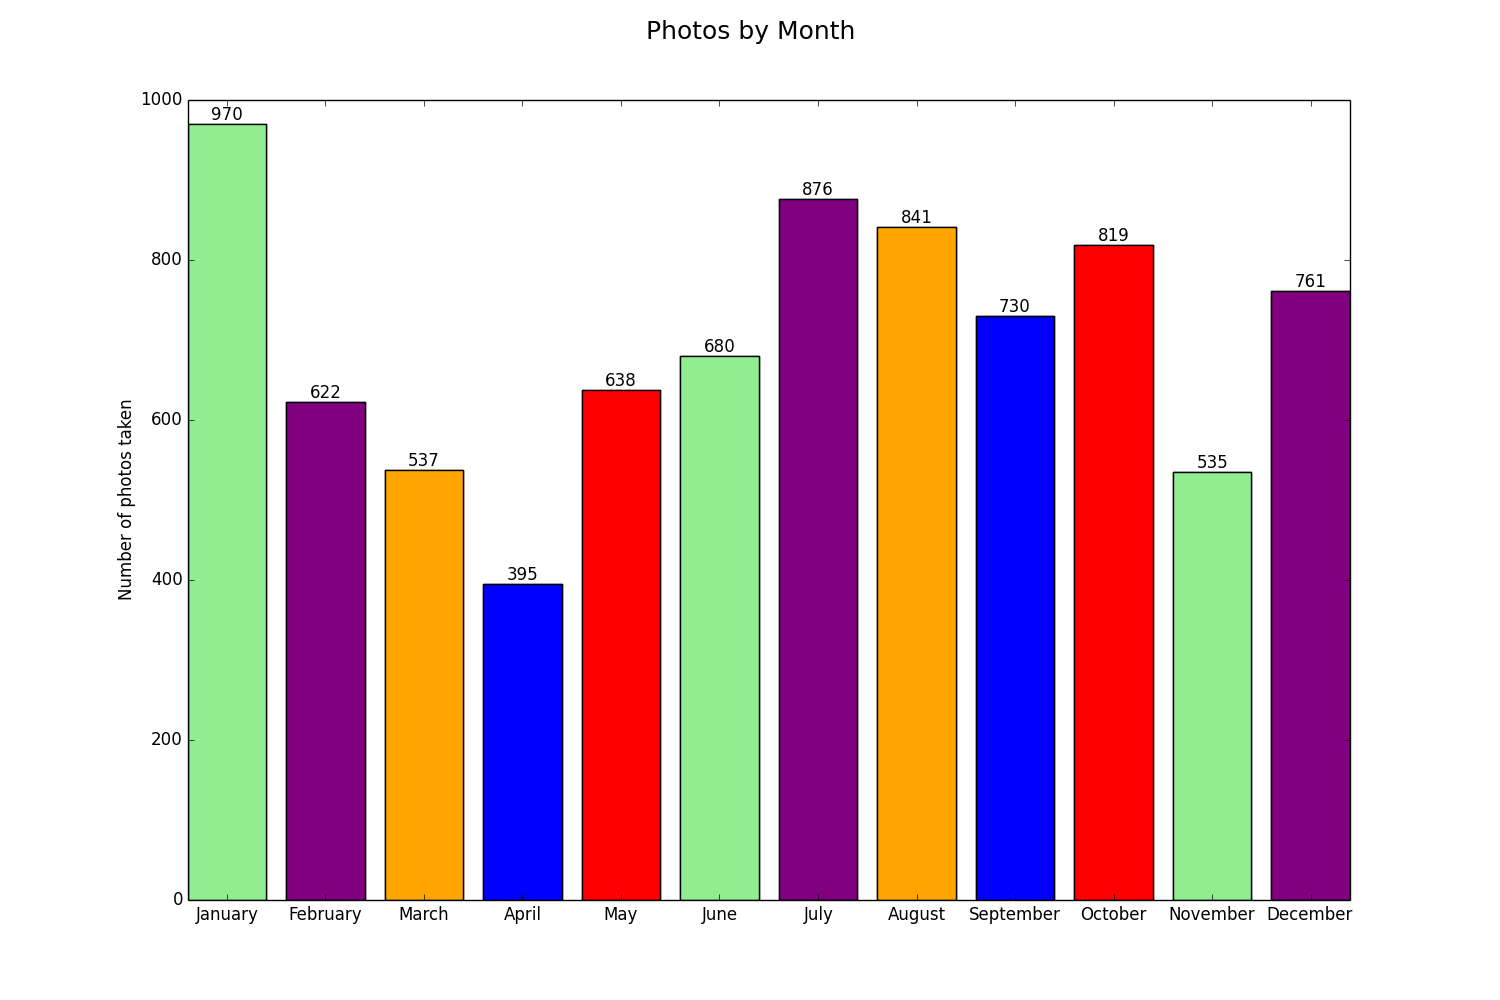
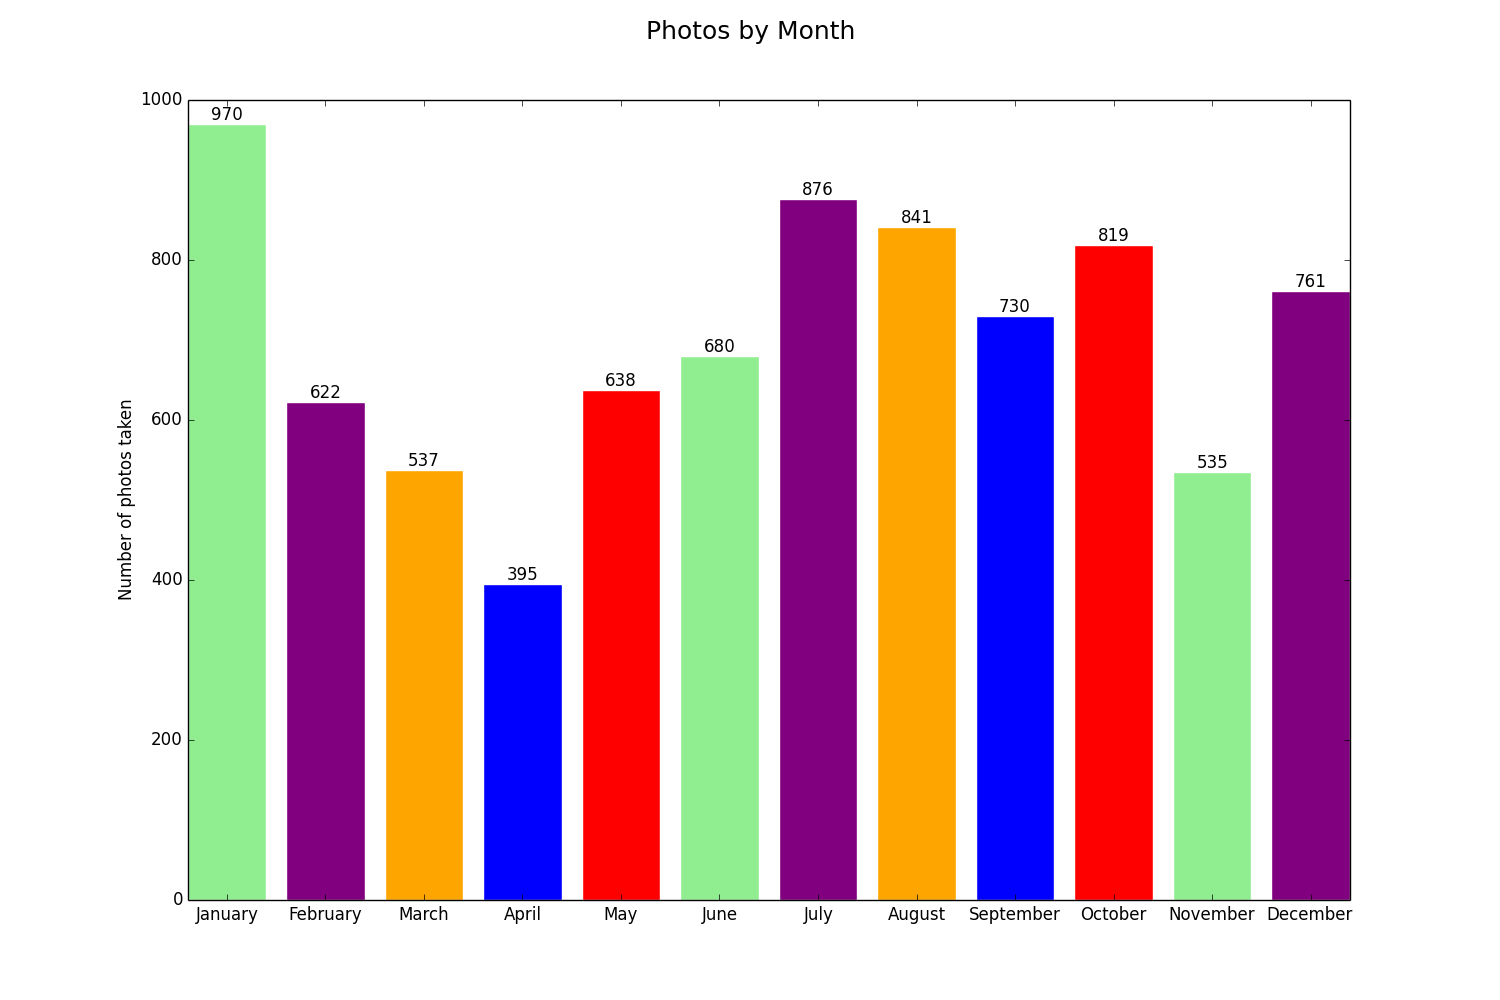
Removed the ugly dark edgecolors from the charts

diff --git a/months.py b/months.py
@@ -24,6 +24,7 @@ count = [item[1] for item in month_count]
 ######## Bar Chart ########
 plt.figure(figsize=(15,10))
 color = ["lightgreen","purple","orange","blue","red"]
+plt.rcParams['patch.edgecolor'] = 'white' 
 xs = [i + 0.1 for i, _ in enumerate(month)]
 plt.bar(xs, count, color=color)
 plt.ylabel("Number of photos taken")

diff --git a/seasons.py b/seasons.py
@@ -34,6 +34,7 @@ counts = [spring_total, summer_total, fall_total, winter_total]
 
 ######## Bar Chart ########
 plt.figure(figsize=(10,8))
+plt.rcParams['patch.edgecolor'] = 'white' 
 colors = ['yellowgreen', 'lightskyblue', 'orange', 'lightgrey']
 xs = [i + 0.1 for i, _ in enumerate(seasons)]
 plt.bar(xs, counts, color=colors)

diff --git a/count_days.py b/count_days.py
@@ -35,6 +35,7 @@ from matplotlib import pyplot as plt
 
 ######## Bar Chart ########
 plt.figure(figsize=(10,8))
+plt.rcParams['patch.edgecolor'] = 'white' 
 colors = ['red', 'orange', 'green', 'purple', 'lightcoral', 'lightskyblue', 'yellowgreen']
 xs = [i + 0.1 for i, _ in enumerate(days)]
 plt.bar(xs, count, color = colors)

diff --git a/hours.py b/hours.py
@@ -25,6 +25,7 @@ count = Counter(time_csv)
 
 ######## Pie chart ########
 count = [ampm_split.count("PM"),ampm_split.count("AM")]
+plt.rcParams['patch.edgecolor'] = 'white' 
 labels = ['PM','AM']
 colors = ['#90DBFD', '#E36A1E']
 plt.pie(count, colors=colors, labels=labels, autopct='%1.1f%%')
